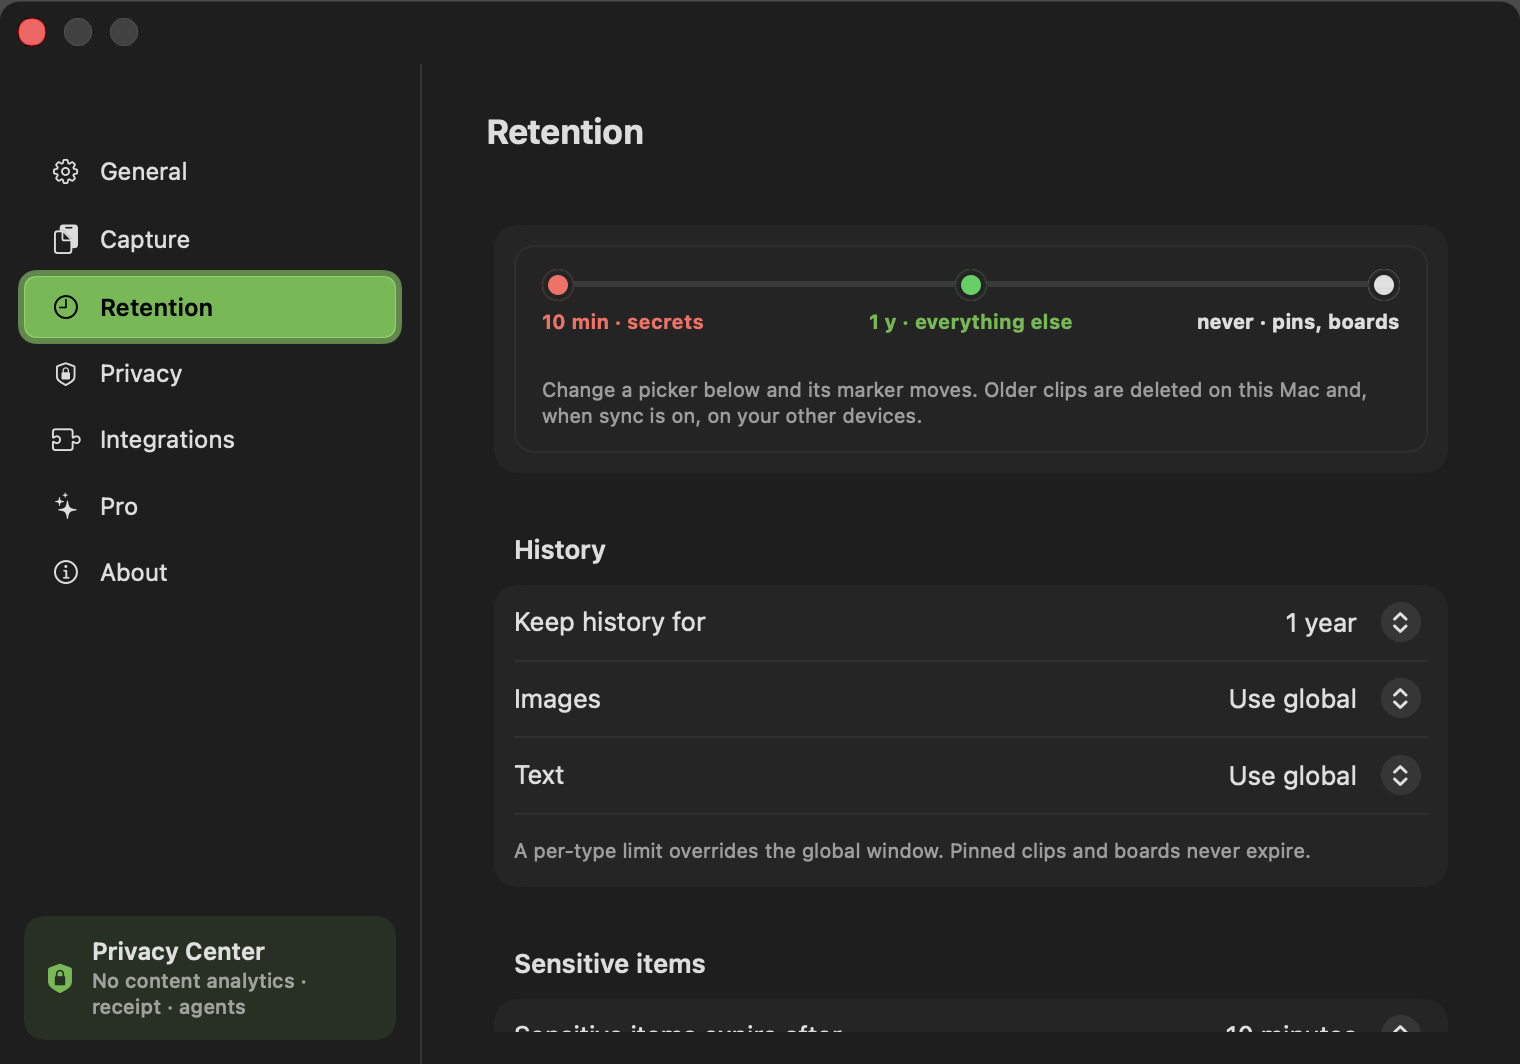
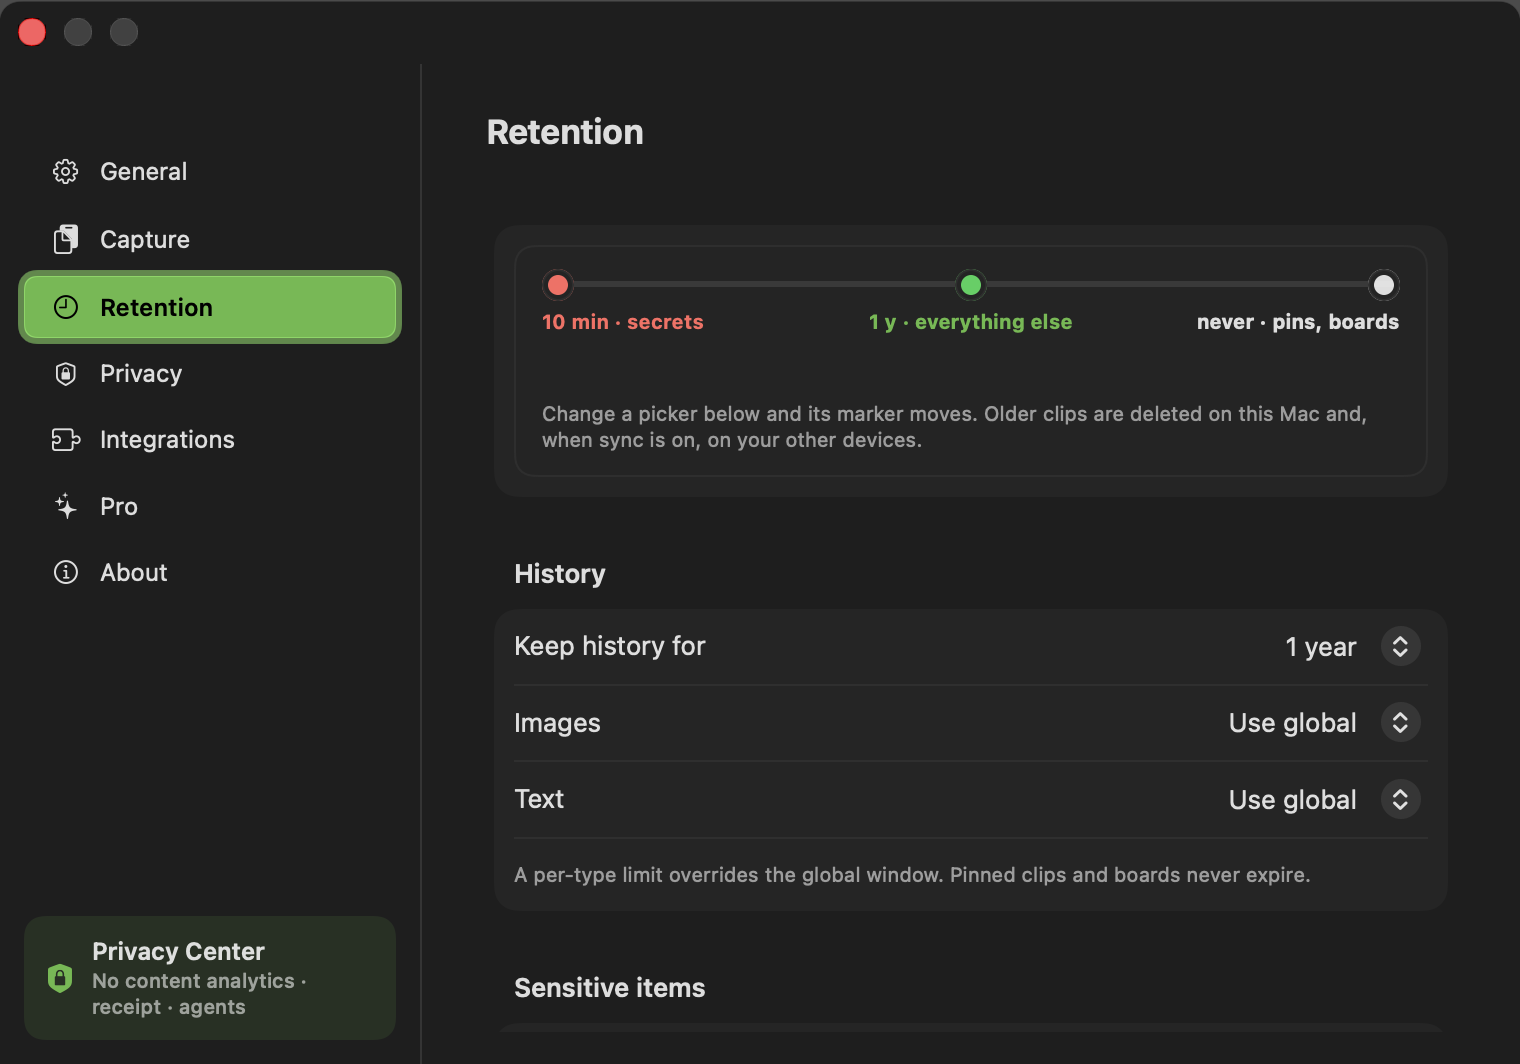
fix(settings): forget what was counted, keep counts live, keep timeline labels apart
Forget recent clips removes exactly the clips it counted, and the count
follows new copies and the passing time; the privacy tiles refresh on
store changes; timeline labels narrow and wrap as markers crowd, so five
lifetimes no longer overlap.

diff --git a/Apps/GanchoMac/RetentionSettingsTab.swift b/Apps/GanchoMac/RetentionSettingsTab.swift
@@ -6,7 +6,7 @@ import SwiftUI
 struct RetentionSettingsTab: View {
     @Environment(AppModel.self) private var model
     @State private var forgetWindow: ForgetRecentWindow = .fifteenMinutes
-    @State private var forgettable = 0
+    @State private var forgettable: [ClipItem] = []
     @State private var forgetRevision = 0
 
     var body: some View {
@@ -62,17 +62,15 @@ struct RetentionSettingsTab: View {
                 }
                 .accessibilityIdentifier("forget-recent-window")
                 HStack {
-                    Text(forgettable == 0 ? "Nothing to forget" : "\(forgettable) clips")
+                    Text(forgettable.isEmpty ? "Nothing to forget" : "\(forgettable.count) clips")
                         .foregroundStyle(.secondary)
                         .accessibilityIdentifier("forget-recent-count")
                     Spacer()
-                    Button("Forget \(forgettable) clips", role: .destructive) {
-                        Task {
-                            _ = await model.forgetRecent(forgetWindow)
-                            forgetRevision += 1
-                        }
+                    Button("Forget \(forgettable.count) clips", role: .destructive) {
+                        model.forget(forgettable)
+                        forgetRevision += 1
                     }
-                    .disabled(forgettable == 0)
+                    .disabled(forgettable.isEmpty)
                     .accessibilityIdentifier("forget-recent-button")
                 }
                 Text(
@@ -89,7 +87,19 @@ struct RetentionSettingsTab: View {
                 window: forgetWindow, revision: forgetRevision,
                 pending: model.pendingDeletionIDs.count)
         ) {
-            forgettable = await model.forgettableClips(forgetWindow).count
+            forgettable = await model.forgettableClips(forgetWindow)
+        }
+        .task {
+            // New copies join the window.
+            for await _ in StoreChangeCoalescer().batches(of: model.storeChanges.subscribe()) {
+                forgetRevision += 1
+            }
+        }
+        .task {
+            // Old copies age out of it.
+            while (try? await Task.sleep(for: .seconds(30))) != nil {
+                forgetRevision += 1
+            }
         }
     }
 
@@ -138,13 +148,16 @@ private struct RetentionTimelineCard: View {
                     Capsule().fill(.quaternary).frame(height: 3).offset(y: 6)
                     ForEach(Array(markers.enumerated()), id: \.offset) { index, marker in
                         let fraction = RetentionTimeline.position(of: index, in: markers.count)
+                        let labelWidth = Self.labelWidth(
+                            count: markers.count, track: proxy.size.width)
                         markerView(marker, alignment: alignment(fraction))
-                            .frame(width: 160, alignment: alignment(fraction))
-                            .offset(x: offset(fraction, width: proxy.size.width))
+                            .frame(width: labelWidth, alignment: alignment(fraction))
+                            .offset(
+                                x: offset(fraction, width: proxy.size.width, label: labelWidth))
                     }
                 }
             }
-            .frame(height: 36)
+            .frame(height: 48)
             Text(
                 // swiftlint:disable:next line_length
                 "Change a picker below and its marker moves. Older clips are deleted on this Mac and, when sync is on, on your other devices."
@@ -169,9 +182,16 @@ private struct RetentionTimelineCard: View {
     }
 
     /// The marker's frame starts where its label must sit for the dot to land on `fraction`.
-    private func offset(_ fraction: Double, width: CGFloat) -> CGFloat {
+    private func offset(_ fraction: Double, width: CGFloat, label: CGFloat) -> CGFloat {
         let x = width * fraction
-        return fraction == 0 ? 0 : fraction == 1 ? x - 160 : x - 80
+        return fraction == 0 ? 0 : fraction == 1 ? x - label : x - label / 2
+    }
+
+    /// Wide enough for one line with few markers; narrower, wrapping, as they crowd.
+    /// An end label leans inward, so its neighbour must fit one and a half labels.
+    static func labelWidth(count: Int, track: CGFloat) -> CGFloat {
+        guard count > 1 else { return 160 }
+        return min(160, max((track / CGFloat(count - 1) - 8) / 1.5, 48))
     }
 
     private func markerView(_ marker: RetentionTimeline.Marker, alignment: Alignment) -> some View {
@@ -184,8 +204,11 @@ private struct RetentionTimelineCard: View {
             Text(label(marker))
                 .font(.caption2.weight(.bold))
                 .foregroundStyle(ink(marker))
-                .lineLimit(1)
-                .fixedSize()
+                .lineLimit(2)
+                .multilineTextAlignment(
+                    alignment == .leading ? .leading : alignment == .trailing ? .trailing : .center
+                )
+                .fixedSize(horizontal: false, vertical: true)
         }
         .accessibilityElement(children: .combine)
         .accessibilityIdentifier("retention-marker")

diff --git a/Tests/GanchoUITests/RetentionSettingsUITests.swift b/Tests/GanchoUITests/RetentionSettingsUITests.swift
@@ -37,6 +37,20 @@ final class RetentionSettingsUITests: XCTestCase {
         images.click()
         app.menuItems["7 days"].firstMatch.click()
         XCTAssertTrue(marker("7 d · images", in: app).waitForExistence(timeout: 3))
+
+        // Five markers still read: no label sits on another.
+        let text = app.popUpButtons["retention-text-picker"].firstMatch
+        text.click()
+        app.menuItems["90 days"].firstMatch.click()
+        XCTAssertTrue(marker("text", in: app).waitForExistence(timeout: 3))
+        let frames = app.descendants(matching: .any).matching(identifier: "retention-marker")
+            .allElementsBoundByIndex.map(\.frame)
+        XCTAssertEqual(frames.count, 5)
+        for (index, frame) in frames.enumerated() {
+            for other in frames.dropFirst(index + 1) {
+                XCTAssertFalse(frame.insetBy(dx: 1, dy: 1).intersects(other), "\(frame) \(other)")
+            }
+        }
     }
 
     @MainActor

diff --git a/Apps/GanchoMac/AppModel+Privacy.swift b/Apps/GanchoMac/AppModel+Privacy.swift
@@ -58,10 +58,9 @@ extension AppModel {
         return clips.filter { !pendingDeletionIDs.contains($0.id) }
     }
 
-    /// Removes the window's clips through the same undoable delete as the panel.
-    func forgetRecent(_ window: ForgetRecentWindow) async -> Int {
-        let clips = await forgettableClips(window)
-        delete(clips)
-        return clips.count
+    /// Removes exactly the clips the user was shown, through the panel's
+    /// undoable delete; a copy that landed after the count stays.
+    func forget(_ clips: [ClipItem]) {
+        delete(clips.filter { !pendingDeletionIDs.contains($0.id) })
     }
 }

diff --git a/Apps/GanchoMac/PrivacySettingsTab.swift b/Apps/GanchoMac/PrivacySettingsTab.swift
@@ -97,7 +97,13 @@ struct PrivacySettingsTab: View {
         }
         .formStyle(.grouped)
         .padding(GanchoTokens.Spacing.md)
-        .task { overview = await model.privacyOverview() }
+        .task {
+            overview = await model.privacyOverview()
+            let changes = model.storeChanges.subscribe()
+            for await _ in StoreChangeCoalescer().batches(of: changes) {
+                overview = await model.privacyOverview()
+            }
+        }
     }
 
     private func footnote(_ text: LocalizedStringKey) -> some View {
